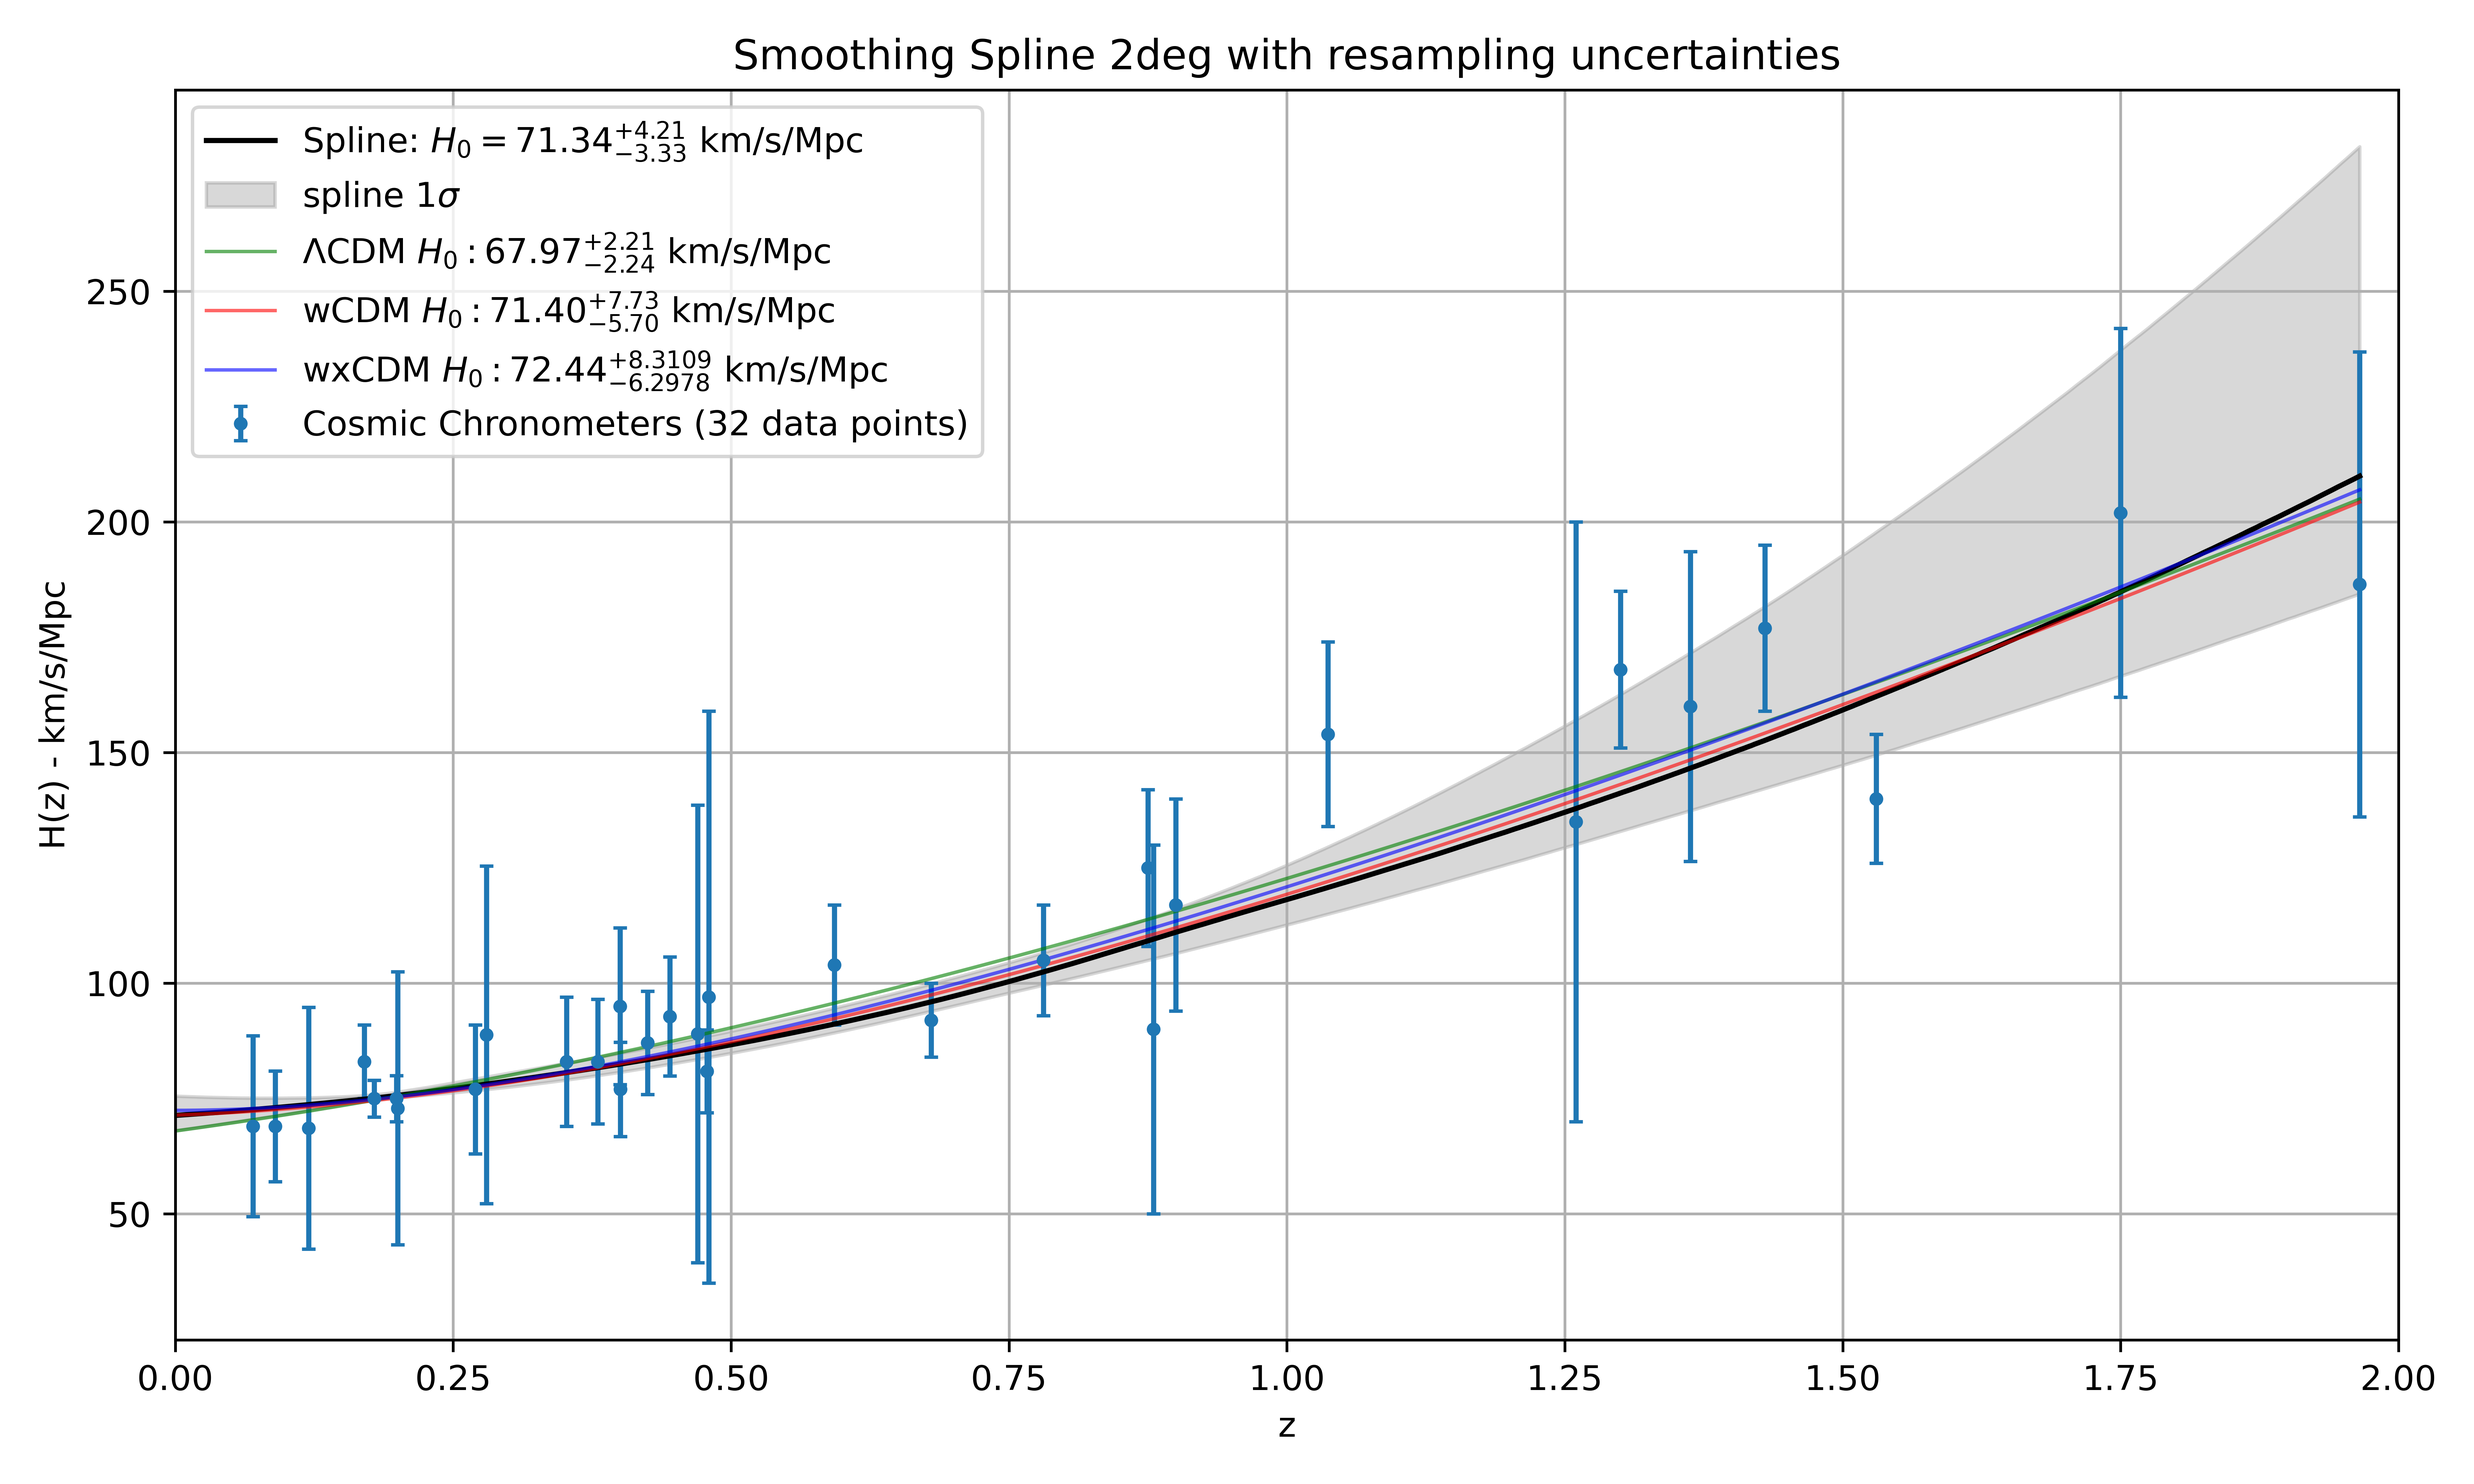
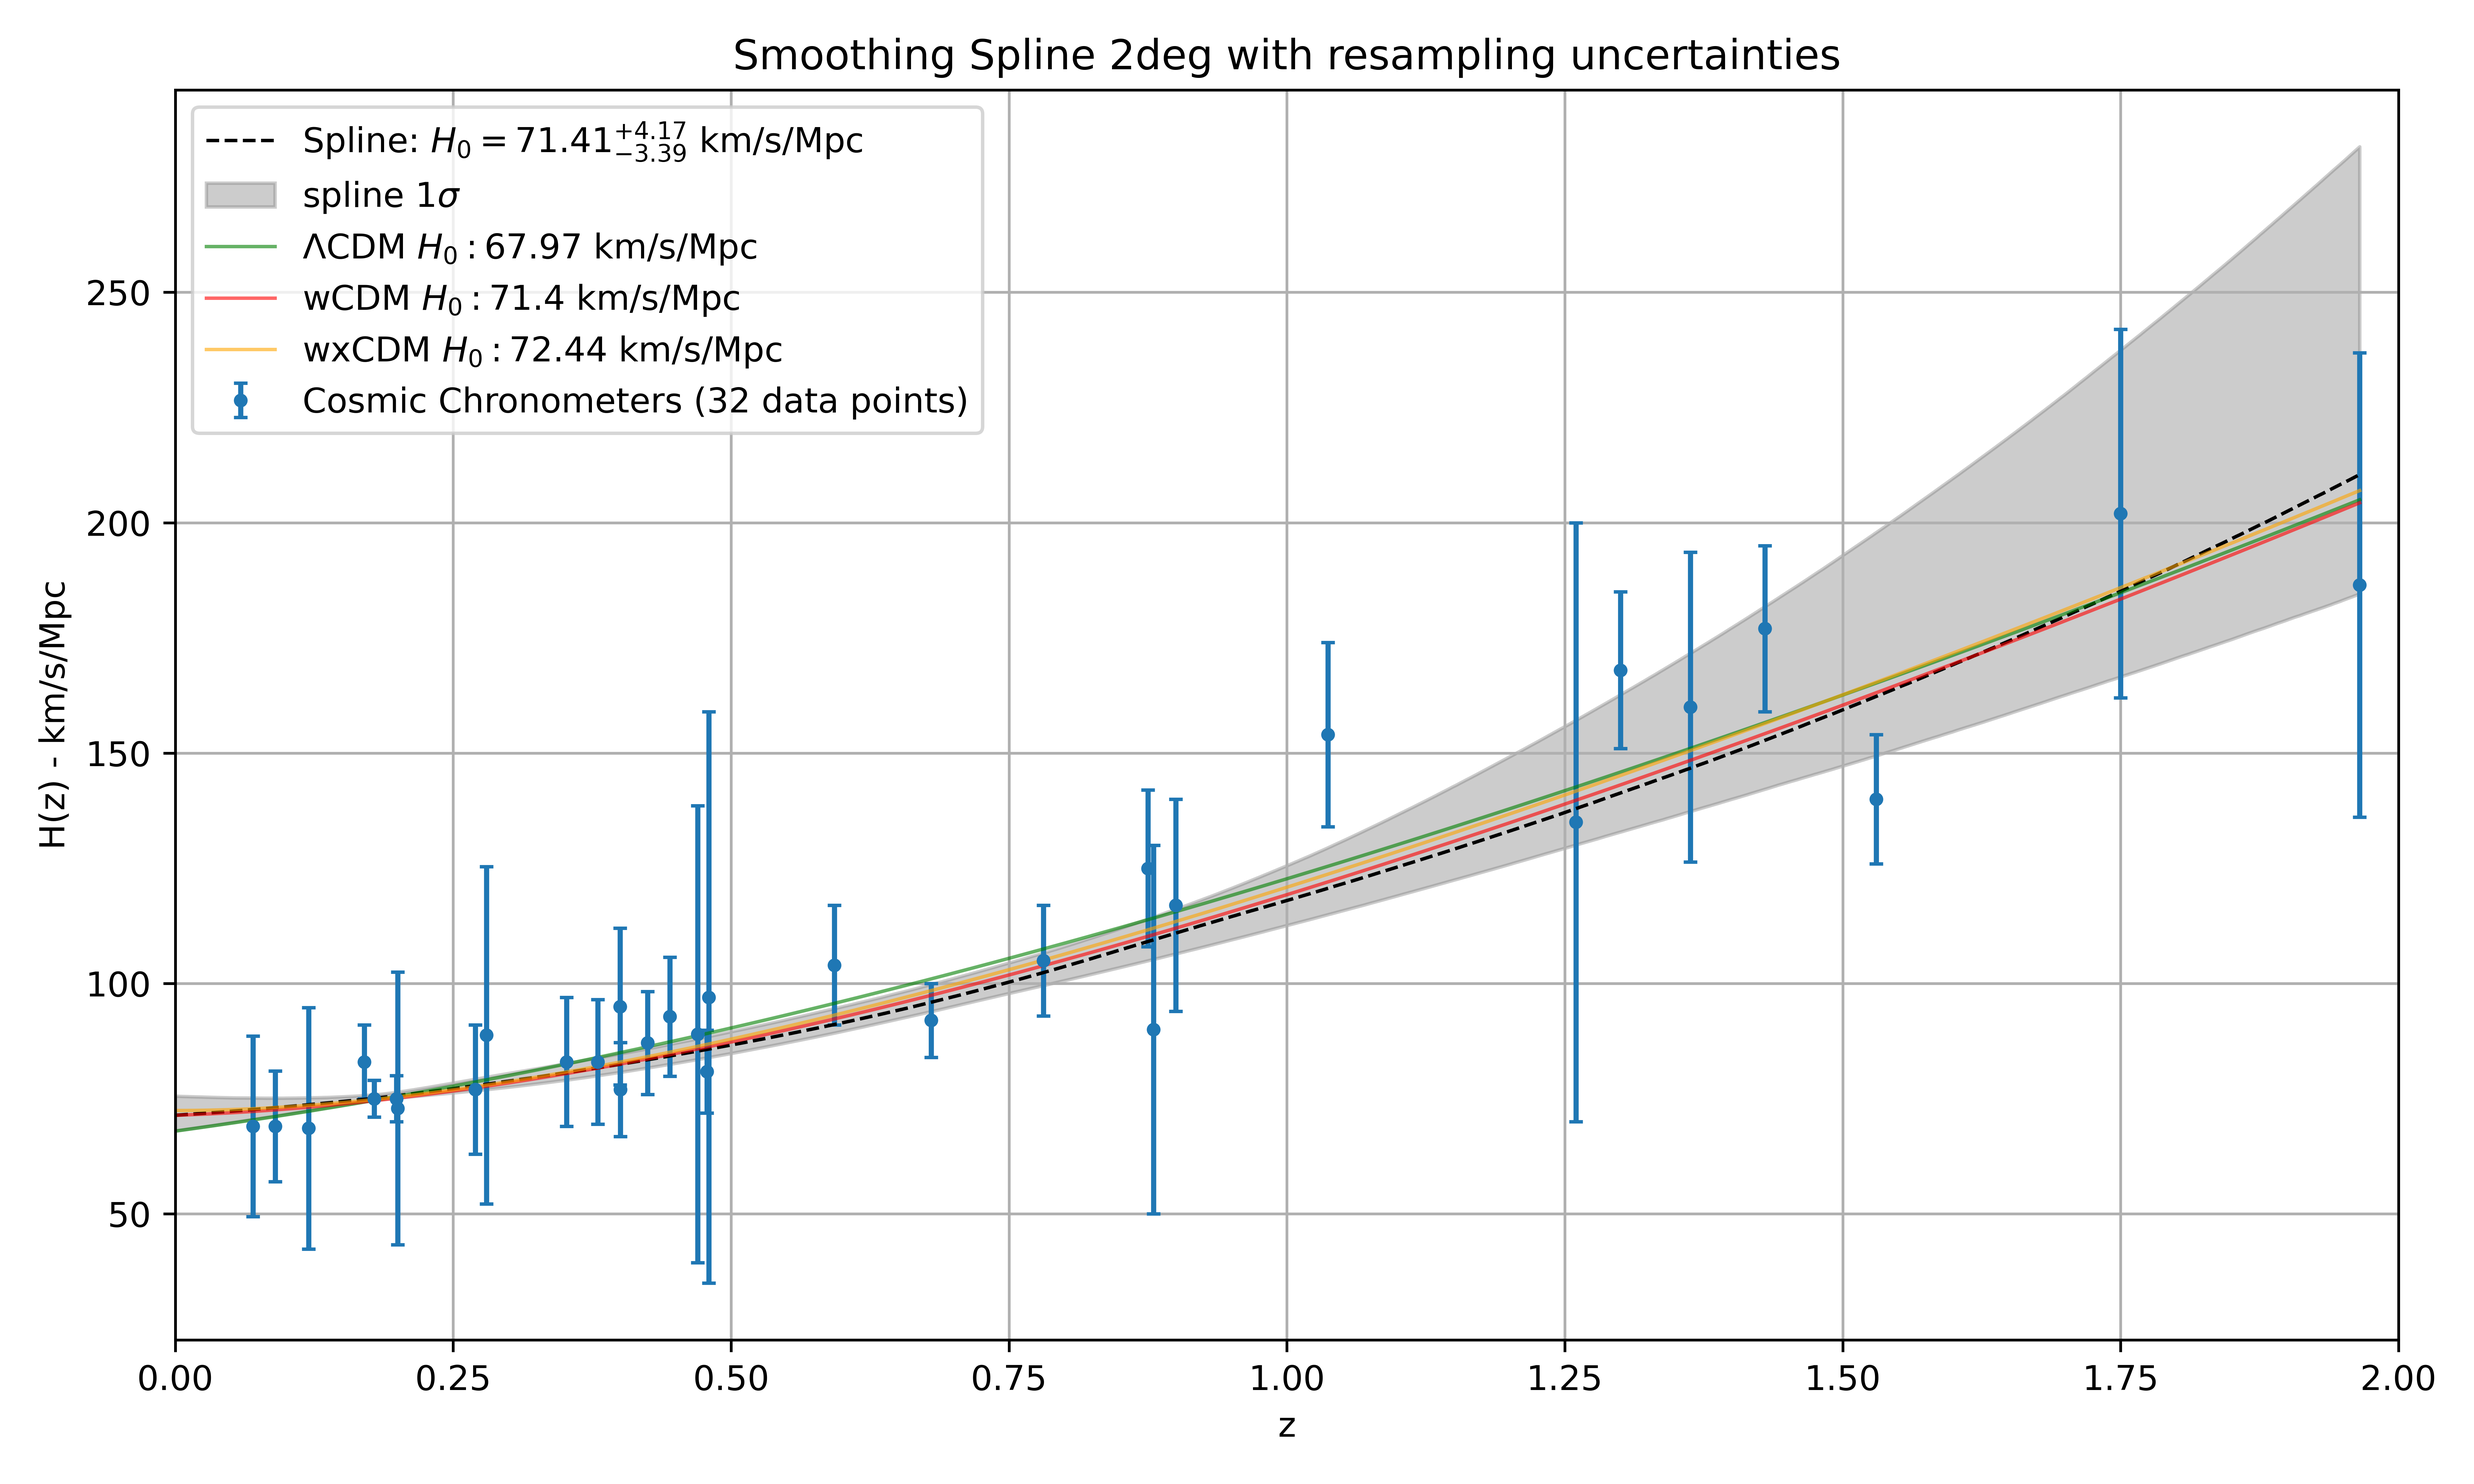
cc splines for both datasets

diff --git a/cosmic_chronometers/cc_spline.py b/cosmic_chronometers/cc_spline.py
@@ -5,24 +5,33 @@ from y2005cc.data import get_data
 
 
 legend, z_values, H_values, dH_values = get_data()
-z_values = z_values.to_numpy()
-H_values = H_values.to_numpy()
-dH_values = dH_values.to_numpy()
+
+best_fit = {
+    "LCDM": [67.97, 0.3229],
+    "wCDM": [71.40, 0.3050, -1.329],
+    "wxCDM": [72.44, 0.3006, -1.432]
+}
+
+best_fit_compilation = {
+    "LCDM": [70.61, 0.2551],
+    "wCDM": [65.80, 0.2498, -0.733],
+    "wxCDM": [65.92, 0.2784, -0.722]
+}
 
 
-def H_lcdm_z(z, params = [67.9657, 0.3229]):
+def H_lcdm_z(z, params=best_fit["LCDM"]):
     h0, o_m = params
     return h0 * np.sqrt(o_m * (1 + z)**3 + (1 - o_m))
 
 
-def H_wcdm_z(z, params = [71.3986, 0.3050, -1.3285]):
+def H_wcdm_z(z, params=best_fit["wCDM"]):
     h0, o_m, w0 = params
     exponent = 3 * (1 + w0)
     sum = 1 + z
     return h0 * np.sqrt(o_m * sum**3 + (1 - o_m) * sum**exponent)
 
 
-def H_wxcdm_z(z, params = [72.4395, 0.3006, -1.4318]):
+def H_wxcdm_z(z, params=best_fit["wxCDM"]):
     h0, o_m, w0 = params
     exponent = 3 * (1 + w0)
     sum = 1 + z
@@ -56,11 +65,11 @@ def main():
 
     plt.figure(figsize=(10, 6))
     plt.errorbar(z_values, H_values, yerr=dH_values, fmt='.', label=legend, capsize=2)
-    plt.plot(z_grid, H0_50, label=fr"Spline: $H_0 = {H0_50[0]:.2f}^{{+{upper:.2f}}}_{{-{lower:.2f}}}$ km/s/Mpc", color='black')
-    plt.fill_between(z_grid, H0_16, H0_84, color='gray', alpha=0.3, label=r'spline $1\sigma$')
-    plt.plot(z_grid, H_lcdm_z(z_grid), label=f'ΛCDM $H_0: 67.97^{{+{2.21}}}_{{-{2.24}}}$ km/s/Mpc', color='green', lw=1, alpha=0.6)
-    plt.plot(z_grid, H_wcdm_z(z_grid), label='wCDM $H_0: 71.40^{{+{7.73}}}_{{-{5.70}}}$ km/s/Mpc', color='red', lw=1, alpha=0.6)
-    plt.plot(z_grid, H_wxcdm_z(z_grid), label='wxCDM $H_0: 72.44^{{+{8.3109}}}_{{-{6.2978}}}$ km/s/Mpc', color='blue', lw=1, alpha=0.6)
+    plt.plot(z_grid, H0_50, label=fr"Spline: $H_0 = {H0_50[0]:.2f}^{{+{upper:.2f}}}_{{-{lower:.2f}}}$ km/s/Mpc", color='black', linestyle='--', lw=1)
+    plt.fill_between(z_grid, H0_16, H0_84, color='gray', alpha=0.4, label=r'spline $1\sigma$')
+    plt.plot(z_grid, H_lcdm_z(z_grid), label=f'ΛCDM $H_0: {best_fit["LCDM"][0]}$ km/s/Mpc', color='green', lw=1, alpha=0.6)
+    plt.plot(z_grid, H_wcdm_z(z_grid), label=f'wCDM $H_0: {best_fit["wCDM"][0]}$ km/s/Mpc', color='red', lw=1, alpha=0.6)
+    plt.plot(z_grid, H_wxcdm_z(z_grid), label=f'wxCDM $H_0: {best_fit["wxCDM"][0]}$ km/s/Mpc', color='orange', lw=1, alpha=0.6)
     plt.title('Smoothing Spline 2deg with resampling uncertainties')
     plt.xlabel('z')
     plt.xlim(0, 2)

diff --git a/y2005cc/compilation_data.py b/y2005cc/compilation_data.py
@@ -10,8 +10,8 @@ covariance = pd.read_csv(path_to_data + 'covariance.txt', sep='\s+', header=None
 
 def get_data():
     return (
-        "Cosmic Chronometers compilation (37 data points)",
-        data["z"],
-        data["H"],
+        f"Cosmic Chronometers compilation ({data.shape[0]} data points)",
+        data["z"].to_numpy(),
+        data["H"].to_numpy(),
         np.sqrt(np.diag(covariance)),
     )

diff --git a/y2005cc/data.py b/y2005cc/data.py
@@ -8,7 +8,7 @@ data = pd.read_csv(path_to_data + 'data2023.txt')
 def get_data():
     return (
         f"Cosmic Chronometers ({data.shape[0]} data points)",
-        data["z"],
-        data["H"],
-        data["sigma_H"]
+        data["z"].to_numpy(),
+        data["H"].to_numpy(),
+        data["sigma_H"].to_numpy(),
     )
